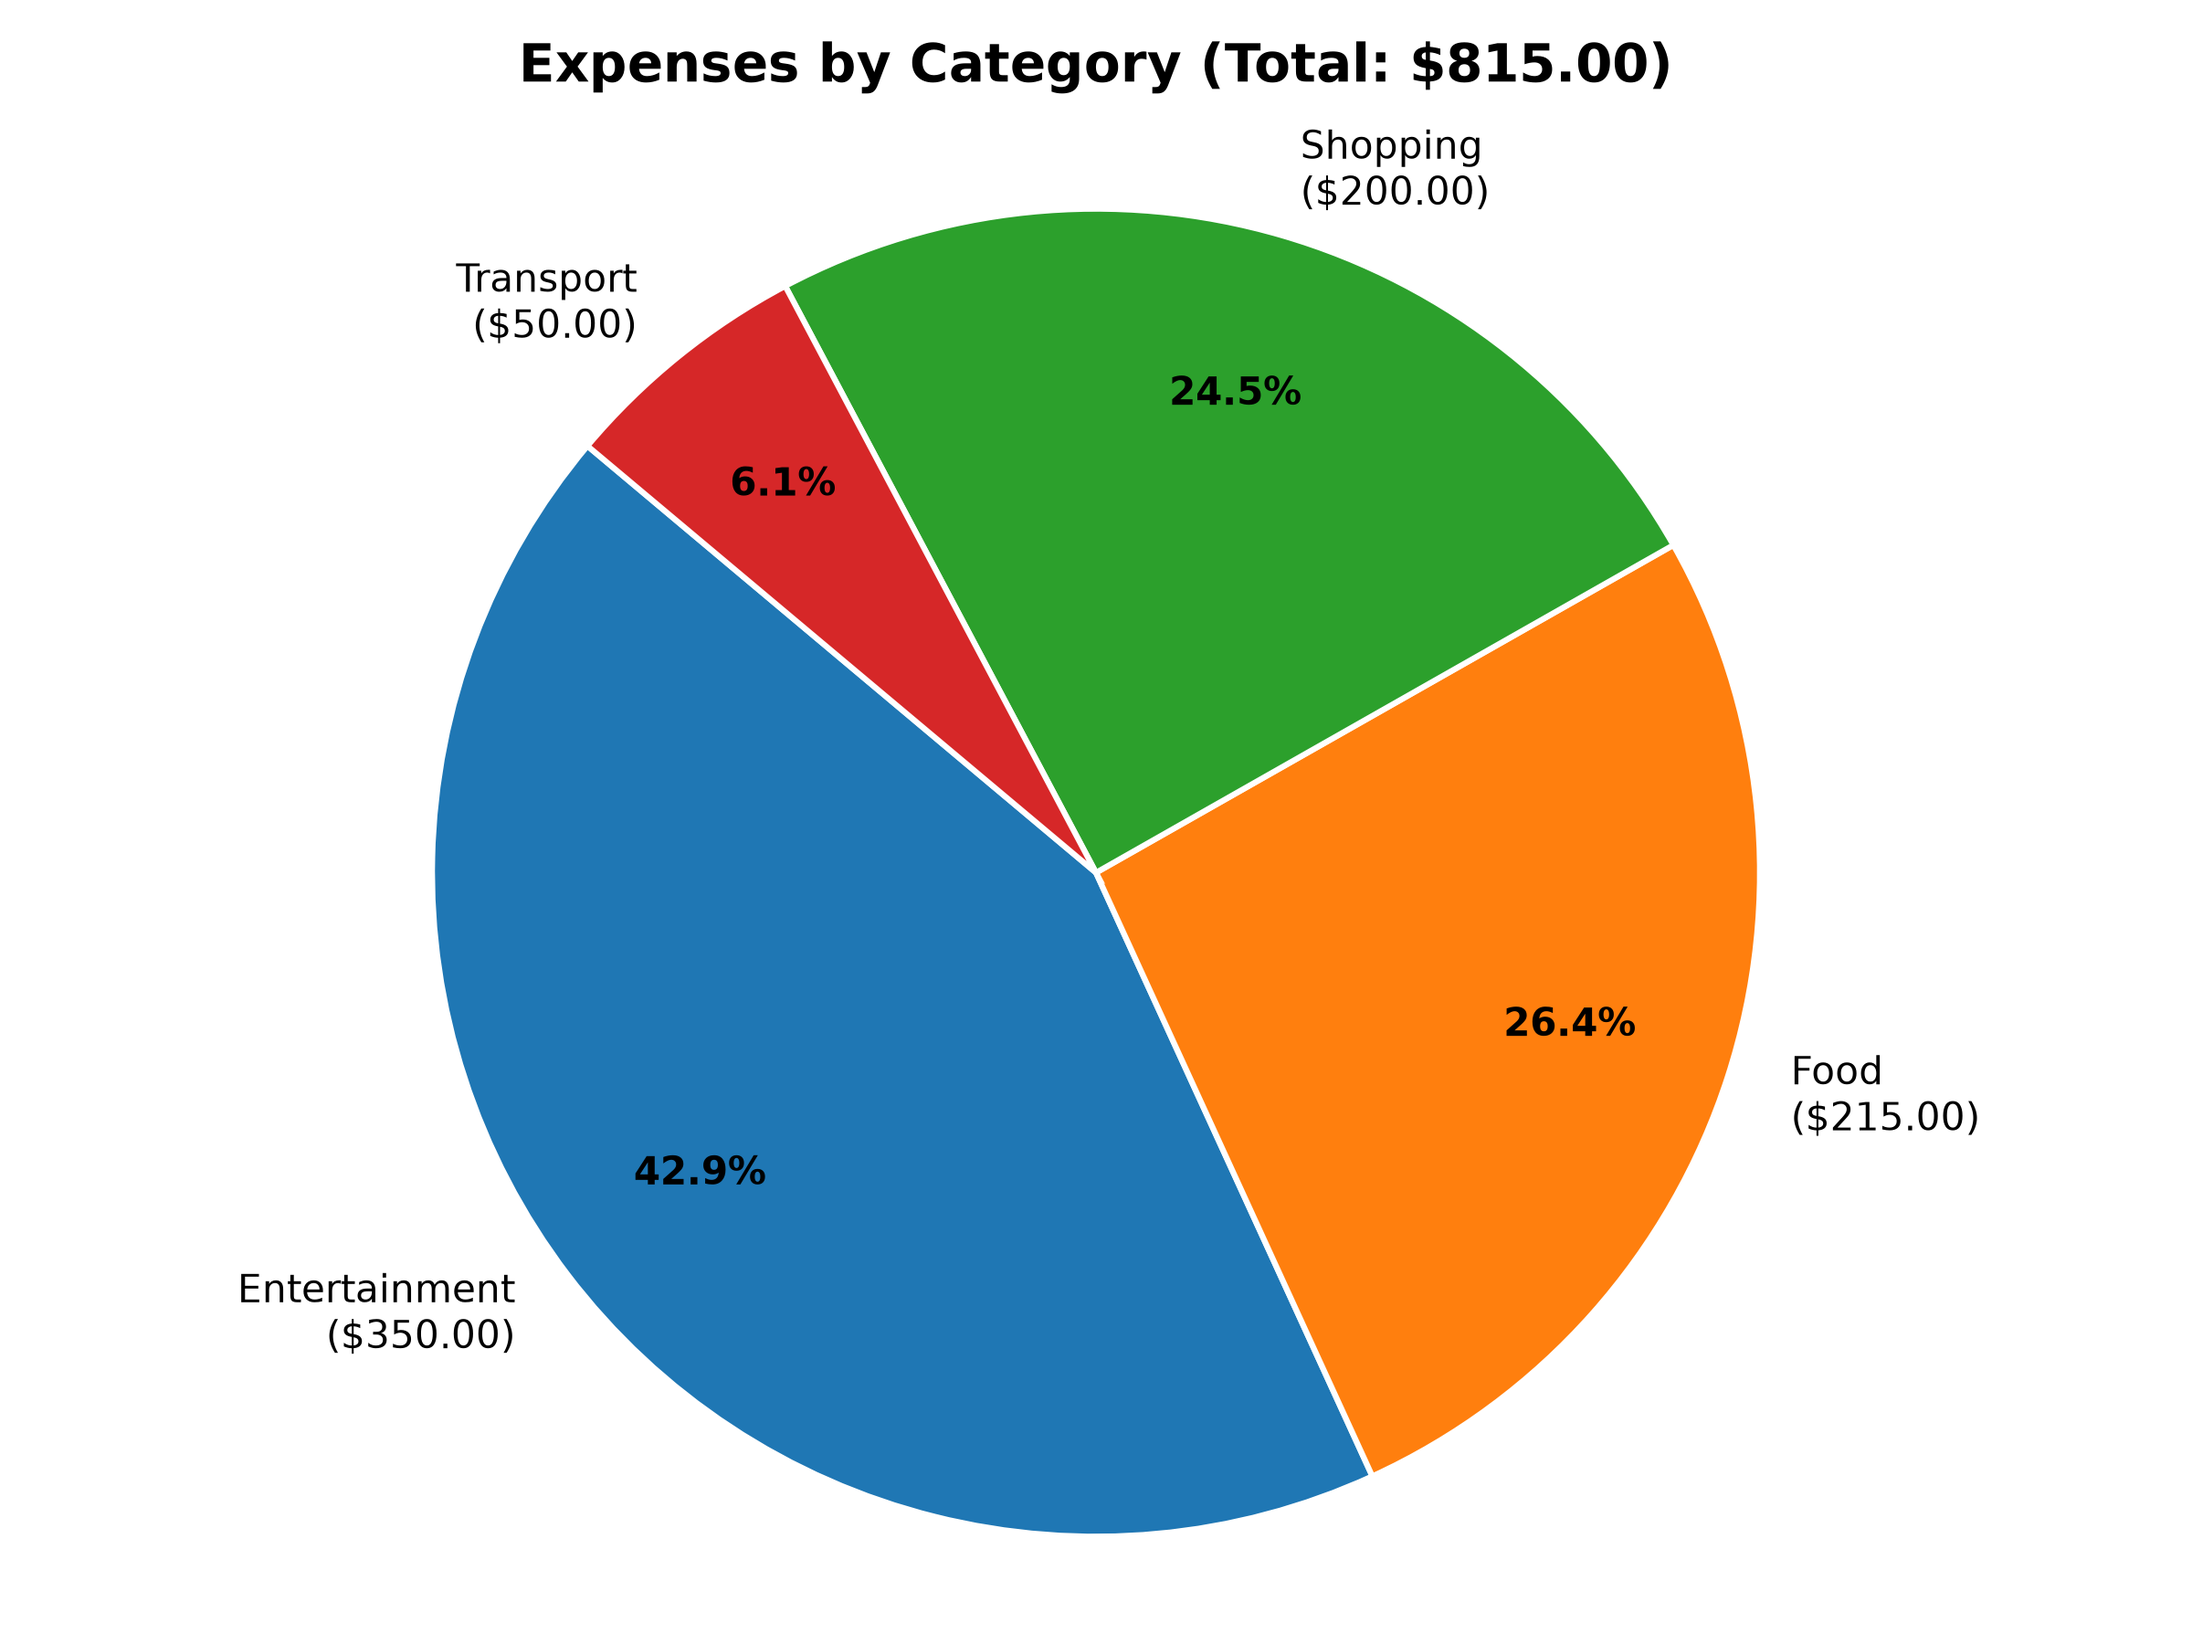
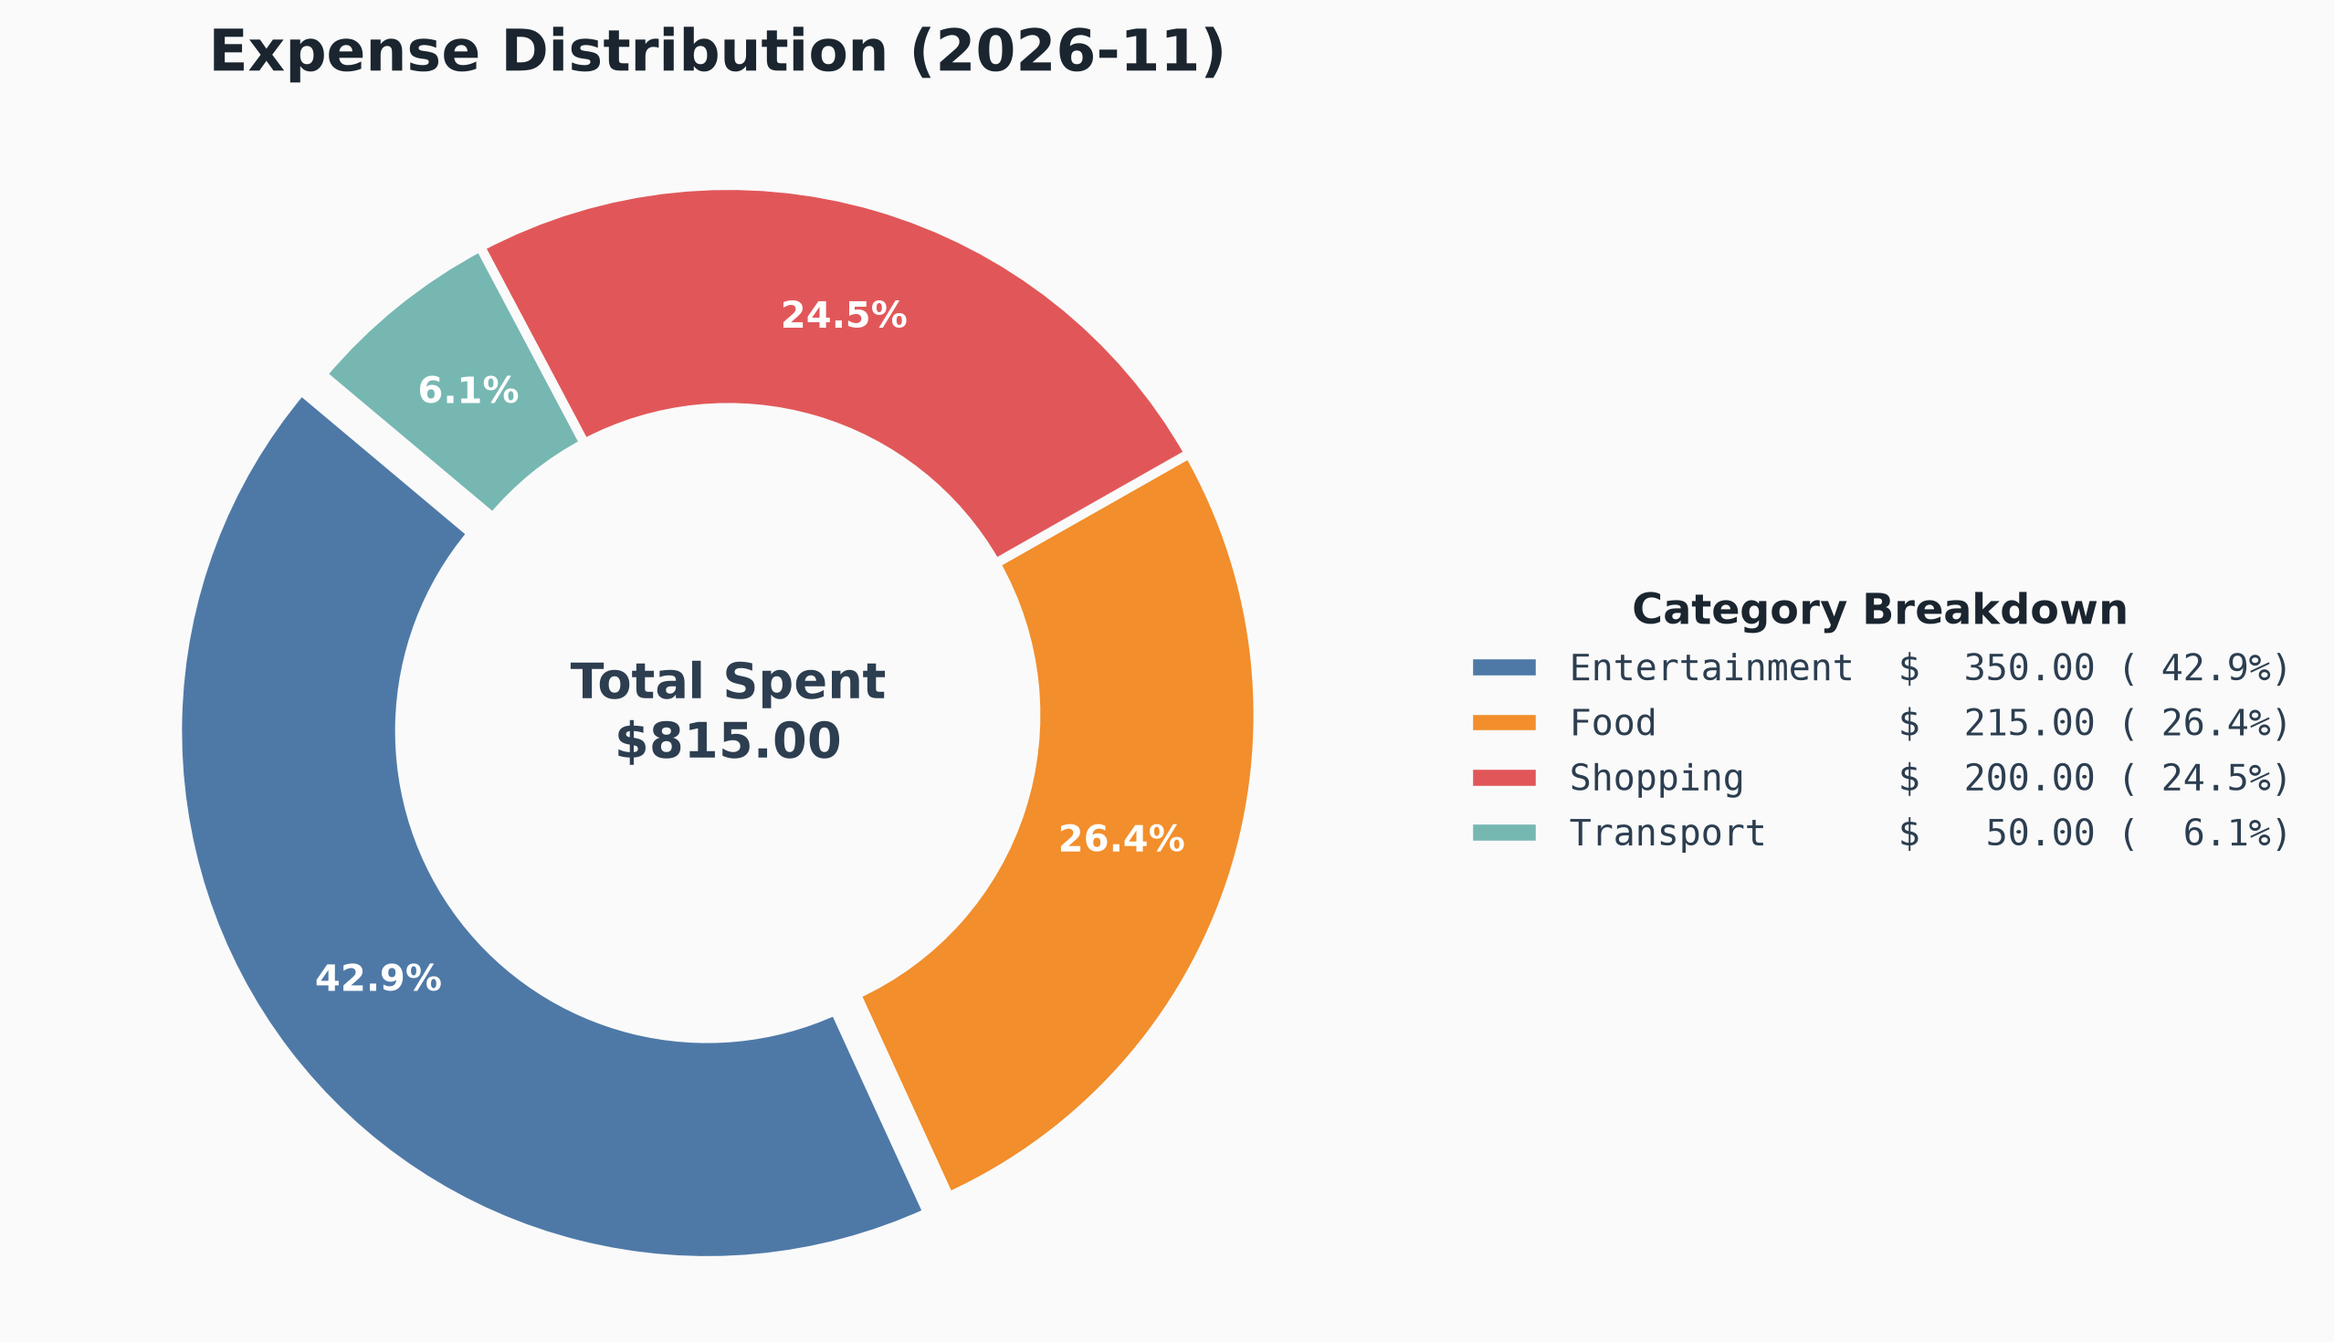
feat(viz): fix legend clipping and add interactive theme switcher buttons

diff --git a/visualize.py b/visualize.py
@@ -1,13 +1,52 @@
+import argparse
 import csv
 import os
 from collections import defaultdict
 import matplotlib.pyplot as plt
+from matplotlib.widgets import Button
 
 CSV_FILE = "expenses.csv"
 OUTPUT_IMAGE = "pie_chart.png"
 
+# 三組內建配色主題
+THEMES = {
+    "modern": {
+        "name": "Modern",
+        "bg": "#FAFAFA",
+        "text": "#2C3E50",
+        "title": "#1A252F",
+        "pct_color": "#FFFFFF",
+        "colors": [
+            "#4E79A7", "#F28E2B", "#E15759", "#76B7B2",
+            "#59A14F", "#EDC948", "#B07AA1", "#FF9DA7"
+        ],
+    },
+    "morandi": {
+        "name": "Morandi",
+        "bg": "#F7F5F2",
+        "text": "#4A4642",
+        "title": "#363330",
+        "pct_color": "#FFFFFF",
+        "colors": [
+            "#8E9AAF", "#CBC0D3", "#B5838D", "#A3B18A",
+            "#D4A373", "#9C89B8", "#B8B8AA", "#E0AFA0"
+        ],
+    },
+    "dark": {
+        "name": "Dark Mode",
+        "bg": "#1E1E2E",
+        "text": "#E0E6ED",
+        "title": "#FFFFFF",
+        "pct_color": "#1E1E2E",
+        "colors": [
+            "#89B4FA", "#FAB387", "#F38BA8", "#94E2D5",
+            "#A6E3A1", "#F9E2AF", "#CBA6F7", "#F5C2E7"
+        ],
+    },
+}
 
-def load_expenses_by_category(filepath=CSV_FILE):
+
+def load_expenses_by_category(filepath=CSV_FILE, month_filter=None):
     if not os.path.exists(filepath):
         print(f"Error: '{filepath}' not found. Please add expenses first.")
         return {}
@@ -17,6 +56,9 @@ def load_expenses_by_category(filepath=CSV_FILE):
         reader = csv.DictReader(f)
         for row in reader:
             try:
+                date_str = row["date"].strip()
+                if month_filter and not date_str.startswith(month_filter):
+                    continue
                 category = row["category"].strip()
                 amount = float(row["amount"])
                 if category and amount > 0:
@@ -27,45 +69,172 @@ def load_expenses_by_category(filepath=CSV_FILE):
     return dict(totals)
 
 
-def generate_pie_chart(totals, output_image=OUTPUT_IMAGE):
+def print_summary_table(totals, title_suffix):
+    if not totals:
+        return
+    sorted_items = sorted(totals.items(), key=lambda x: x[1], reverse=True)
+    total_spent = sum(totals.values())
+
+    print(f"\n=== Expense Summary ({title_suffix}) ===")
+    print(f"{'Category':<16} {'Amount':>10} {'Share':>8}")
+    print("-" * 36)
+    for cat, amt in sorted_items:
+        pct = (amt / total_spent) * 100
+        print(f"{cat:<16} ${amt:>9,.2f} {pct:>7.1f}%")
+    print("-" * 36)
+    print(f"{'TOTAL':<16} ${total_spent:>9,.2f} {'100.0%':>8}\n")
+
+
+def generate_interactive_chart(
+    totals,
+    output_image=OUTPUT_IMAGE,
+    title_suffix="All Time",
+    initial_theme="modern",
+):
     if not totals:
         print("No valid expense data available to plot.")
         return
 
-    # 依金額由大到小排序，讓圓餅圖視覺更整齊
     sorted_items = sorted(totals.items(), key=lambda x: x[1], reverse=True)
     categories = [item[0] for item in sorted_items]
     amounts = [item[1] for item in sorted_items]
     total_spent = sum(amounts)
+    explode = [0.05 if i == 0 else 0 for i in range(len(amounts))]
 
-    labels = [f"{cat}\n(${amt:.2f})" for cat, amt in zip(categories, amounts)]
+    # 加寬畫布，並手動配置圓餅圖區域（左 4%、底 17%、寬 48%、高 72%）
+    # 右側保留將近一半的寬度給圖例，徹底解決視窗裁切問題
+    fig = plt.figure(figsize=(10.5, 6), dpi=115)
+    try:
+        fig.canvas.manager.set_window_title("Expense Tracker - Visualization")
+    except AttributeError:
+        pass
 
-    fig, ax = plt.subplots(figsize=(8, 6))
-    wedges, texts, autotexts = ax.pie(
-        amounts,
-        labels=labels,
-        autopct="%1.1f%%",
-        startangle=140,
-        pctdistance=0.75,
-        wedgeprops={"edgecolor": "white", "linewidth": 1.5}
-    )
+    ax = fig.add_axes([0.04, 0.17, 0.48, 0.72])
+    button_axes = []
 
-    for autotext in autotexts:
-        autotext.set_fontsize(10)
-        autotext.set_weight("bold")
+    def draw_chart(theme_key):
+        theme = THEMES[theme_key]
+        ax.clear()
+        fig.patch.set_facecolor(theme["bg"])
+        ax.set_facecolor(theme["bg"])
 
-    ax.set_title(f"Expenses by Category (Total: ${total_spent:.2f})", fontsize=14, fontweight="bold", pad=16)
-    ax.axis("equal")
+        colors = [theme["colors"][i % len(theme["colors"])] for i in range(len(amounts))]
 
-    plt.tight_layout()
-    plt.savefig(output_image, dpi=300)
-    print(f"Pie chart saved to '{output_image}'.")
+        wedges, texts, autotexts = ax.pie(
+            amounts,
+            explode=explode,
+            colors=colors,
+            autopct=lambda pct: f"{pct:.1f}%" if pct >= 4 else "",
+            startangle=140,
+            pctdistance=0.78,
+            wedgeprops={"width": 0.42, "edgecolor": theme["bg"], "linewidth": 2.5},
+        )
+
+        for autotext in autotexts:
+            autotext.set_color(theme["pct_color"])
+            autotext.set_fontsize(9.5)
+            autotext.set_weight("bold")
+
+        ax.text(
+            0, 0,
+            f"Total Spent\n${total_spent:,.2f}",
+            ha="center", va="center",
+            fontsize=13, fontweight="bold", color=theme["text"],
+        )
+
+        legend_labels = [
+            f"{cat:<14} ${amt:>8,.2f} ({amt / total_spent * 100:>5.1f}%)"
+            for cat, amt in zip(categories, amounts)
+        ]
+        legend = ax.legend(
+            wedges,
+            legend_labels,
+            title="Category Breakdown",
+            title_fontsize=11,
+            loc="center left",
+            bbox_to_anchor=(1.02, 0.5),
+            frameon=False,
+            prop={"family": "monospace", "size": 9.5},
+        )
+        plt.setp(legend.get_title(), color=theme["title"], fontweight="bold")
+        for text in legend.get_texts():
+            text.set_color(theme["text"])
+
+        ax.set_title(
+            f"Expense Distribution ({title_suffix})",
+            fontsize=15, fontweight="bold", color=theme["title"], pad=16,
+        )
+        ax.axis("equal")
+        fig.canvas.draw_idle()
+
+    def save_clean_png(event=None):
+        # 存檔前暫時隱藏按鈕列，讓輸出的 pie_chart.png 不會出現按鈕
+        for b_ax in button_axes:
+            b_ax.set_visible(False)
+        fig.savefig(output_image, dpi=300, bbox_inches="tight", facecolor=fig.get_facecolor())
+        for b_ax in button_axes:
+            b_ax.set_visible(True)
+        fig.canvas.draw_idle()
+        print(f"Chart saved to '{output_image}'.")
+
+    # 建立底部互動按鈕列（位置：[左, 下, 寬, 高]）
+    btn_specs = [
+        ("Modern",    [0.10, 0.04, 0.14, 0.065], lambda e: draw_chart("modern"),  "#E2E8F0", "#CBD5E1"),
+        ("Morandi",   [0.26, 0.04, 0.14, 0.065], lambda e: draw_chart("morandi"), "#E8DFD8", "#D6C7BC"),
+        ("Dark Mode", [0.42, 0.04, 0.14, 0.065], lambda e: draw_chart("dark"),    "#334155", "#475569"),
+        ("Save PNG",  [0.64, 0.04, 0.16, 0.065], save_clean_png,                  "#D1FAE5", "#A7F3D0"),
+    ]
+
+    # 必須把 Button 物件存在 list 裡，避免被 Python 垃圾回收導致點擊失效
+    buttons = []
+    for label, rect, callback, bg_col, hover_col in btn_specs:
+        b_ax = fig.add_axes(rect)
+        button_axes.append(b_ax)
+        btn = Button(b_ax, label, color=bg_col, hovercolor=hover_col)
+        btn.label.set_fontsize(9.5)
+        btn.label.set_fontweight("bold")
+        if label == "Dark Mode":
+            btn.label.set_color("#FFFFFF")
+        btn.on_clicked(callback)
+        buttons.append(btn)
+
+    draw_chart(initial_theme)
+    save_clean_png()  # 啟動時先自動匯出一份預設主題的 PNG
     plt.show()
 
 
 def main():
-    totals = load_expenses_by_category()
-    generate_pie_chart(totals)
+    parser = argparse.ArgumentParser(description="Generate a category expense donut chart.")
+    parser.add_argument(
+        "--month",
+        type=str,
+        default=None,
+        help="Filter expenses by month in YYYY-MM format (e.g., 2026-11)",
+    )
+    parser.add_argument(
+        "--theme",
+        type=str,
+        choices=["modern", "morandi", "dark"],
+        default="modern",
+        help="Initial color theme (modern, morandi, dark)",
+    )
+    parser.add_argument(
+        "--output",
+        type=str,
+        default=OUTPUT_IMAGE,
+        help="Output image filename (default: pie_chart.png)",
+    )
+    args = parser.parse_args()
+
+    title_suffix = args.month if args.month else "All Time"
+    totals = load_expenses_by_category(month_filter=args.month)
+    print_summary_table(totals, title_suffix)
+    generate_interactive_chart(
+        totals,
+        output_image=args.output,
+        title_suffix=title_suffix,
+        initial_theme=args.theme,
+    )
 
 
 if __name__ == "__main__":
